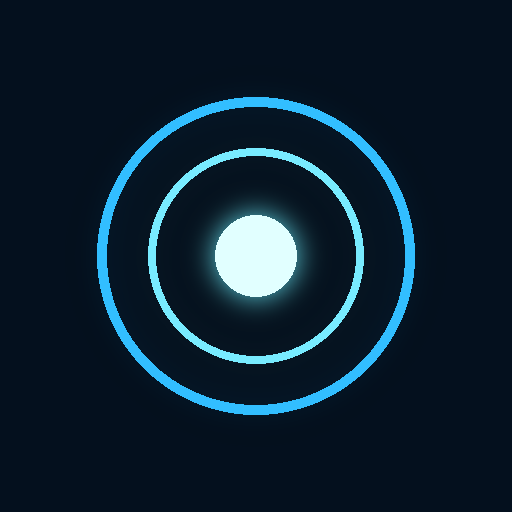
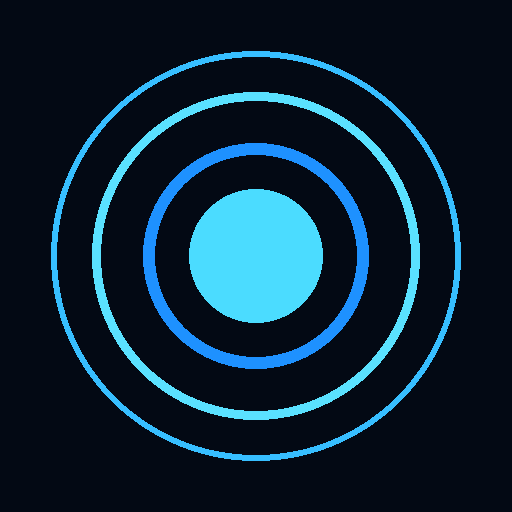
Add files via upload

diff --git a/index.html b/index.html
@@ -1,197 +1,68 @@
-<!DOCTYPE html>
+<!doctype html>
 <html lang="en">
 <head>
-  <meta charset="UTF-8">
-  <meta name="viewport" content="width=device-width, initial-scale=1, viewport-fit=cover">
-  <meta name="theme-color" content="#061426">
-  <meta name="apple-mobile-web-app-capable" content="yes">
-  <meta name="apple-mobile-web-app-status-bar-style" content="black-translucent">
-  <meta name="apple-mobile-web-app-title" content="JARVIS">
-  <link rel="manifest" href="manifest.webmanifest">
-  <link rel="apple-touch-icon" href="icon-192.png">
-  <title>JARVIS Mobile</title>
-  <style>
-    :root {
-      color-scheme: dark;
-      --bg: #04101e;
-      --panel: rgba(7, 30, 52, .78);
-      --cyan: #54dfff;
-      --blue: #168bff;
-      --muted: #78a8c8;
-      --line: rgba(65, 191, 255, .28);
-    }
-    * { box-sizing: border-box; }
-    body {
-      margin: 0;
-      min-height: 100vh;
-      min-height: 100svh;
-      color: #e8f8ff;
-      background:
-        radial-gradient(ellipse at 50% 35%, rgba(0, 113, 191, .24), transparent 43%),
-        linear-gradient(145deg, #061a30, #020812 72%);
-      font-family: -apple-system, BlinkMacSystemFont, "Segoe UI", sans-serif;
-      overflow-x: hidden;
-    }
-    body::before {
-      content: "";
-      position: fixed;
-      inset: 0;
-      pointer-events: none;
-      opacity: .18;
-      background-image: linear-gradient(rgba(65,191,255,.15) 1px, transparent 1px),
-                        linear-gradient(90deg, rgba(65,191,255,.15) 1px, transparent 1px);
-      background-size: 34px 34px;
-      mask-image: linear-gradient(to bottom, black, transparent 88%);
-    }
-    .app {
-      width: min(100%, 520px);
-      min-height: 100vh;
-      min-height: 100svh;
-      margin: 0 auto;
-      padding: max(24px, env(safe-area-inset-top)) 22px max(24px, env(safe-area-inset-bottom));
-      display: flex;
-      flex-direction: column;
-      position: relative;
-    }
-    header { display:flex; justify-content:space-between; align-items:center; letter-spacing:.22em; }
-    .brand { font-size: 13px; font-weight: 800; color: var(--cyan); }
-    .live { font-size: 10px; color:#8ee9ff; border:1px solid var(--line); padding:7px 10px; border-radius:20px; letter-spacing:.16em; }
-    .clock { text-align:center; margin-top:26px; }
-    #time { font-size: clamp(38px, 12vw, 56px); font-weight:200; letter-spacing:.08em; text-shadow:0 0 24px rgba(84,223,255,.35); }
-    #date { color:var(--muted); font-size:11px; letter-spacing:.2em; text-transform:uppercase; margin-top:4px; }
-    .reactor-wrap { display:grid; place-items:center; margin:26px 0 22px; }
-    .reactor {
-      width:min(67vw, 270px); aspect-ratio:1; border-radius:50%; position:relative;
-      display:grid; place-items:center;
-      background: radial-gradient(circle, rgba(49,196,255,.20) 0 12%, rgba(8,99,173,.16) 13% 32%, transparent 33%);
-      filter: drop-shadow(0 0 24px rgba(0,166,255,.38));
-    }
-    .reactor::before, .reactor::after {
-      content:""; position:absolute; inset:3%; border-radius:50%;
-      border:1px solid rgba(84,223,255,.72);
-      box-shadow:0 0 18px rgba(22,139,255,.22), inset 0 0 20px rgba(22,139,255,.12);
-    }
-    .reactor::before { border-width:2px; border-style:double; animation:spin 18s linear infinite; }
-    .reactor::after { inset:14%; border-color:rgba(84,223,255,.42); border-style:dashed; animation:spin 24s linear infinite reverse; }
-    .ring { position:absolute; inset:24%; border-radius:50%; border:7px solid transparent; border-top-color:#66eaff; border-bottom-color:#168bff; box-shadow:0 0 20px rgba(84,223,255,.42); animation:spin 7s linear infinite; }
-    .core { width:29%; aspect-ratio:1; border-radius:50%; background:radial-gradient(circle at 38% 35%, #fff, #8ef3ff 22%, #159fff 58%, #07509b); box-shadow:0 0 18px #39cfff,0 0 55px rgba(0,153,255,.85); }
-    .reactor-label { position:absolute; bottom:-15px; font-size:10px; letter-spacing:.32em; color:#9beeff; }
-    @keyframes spin { to { transform:rotate(360deg); } }
-    .status { text-align:center; color:var(--cyan); font-size:12px; letter-spacing:.3em; margin:4px 0 22px; }
-    .grid { display:grid; grid-template-columns:1fr 1fr; gap:12px; }
-    .tile { border:1px solid var(--line); background:var(--panel); border-radius:13px; padding:15px; min-height:88px; box-shadow:inset 0 0 18px rgba(0,120,200,.06); }
-    .tile-label { color:var(--muted); font-size:9px; letter-spacing:.2em; }
-    .tile-value { margin-top:9px; font-size:18px; color:#e8faff; }
-    .tile-sub { margin-top:4px; font-size:10px; color:#78a8c8; }
-    .actions { display:grid; gap:10px; margin-top:auto; padding-top:24px; }
-    button { border:1px solid rgba(84,223,255,.55); background:linear-gradient(100deg, rgba(5,88,145,.8), rgba(8,38,70,.9)); color:#e8faff; border-radius:11px; padding:16px 14px; font-weight:700; letter-spacing:.17em; font-size:11px; cursor:pointer; }
-    button.secondary { background:rgba(5,21,38,.75); border-color:var(--line); color:#9edff5; }
-    button:active { transform:scale(.99); }
-    #message { min-height:16px; text-align:center; margin-top:10px; color:#86c7e8; font-size:10px; line-height:1.5; }
-    footer { text-align:center; color:rgba(120,168,200,.55); font-size:8px; letter-spacing:.22em; padding-top:18px; }
-  </style>
+<meta charset="utf-8">
+<meta name="viewport" content="width=device-width,initial-scale=1,viewport-fit=cover">
+<meta name="theme-color" content="#030914">
+<link rel="manifest" href="manifest.webmanifest">
+<title>J.A.R.V.I.S.</title>
+<style>
+:root{--cyan:#54dfff;--blue:#168cff;--deep:#06152b;--muted:#82a8c5}
+*{box-sizing:border-box} body{margin:0;background:radial-gradient(ellipse at 50% 38%,#09264a 0,#061426 34%,#020711 76%);color:#eaf8ff;font-family:Arial,Helvetica,sans-serif;min-height:100vh;overflow-x:hidden}
+body:before{content:"";position:fixed;inset:0;pointer-events:none;opacity:.18;background-image:linear-gradient(#4bbdff18 1px,transparent 1px),linear-gradient(90deg,#4bbdff18 1px,transparent 1px);background-size:36px 36px;mask-image:linear-gradient(to bottom,black,transparent 85%)}
+header{display:flex;justify-content:space-between;align-items:center;padding:22px 22px 8px;letter-spacing:3px;font-size:12px;color:#9bcce8}
+.brand{font-weight:700;color:#dff8ff}.status{font-size:10px;letter-spacing:2px;color:#69e9ff}.status:before{content:"";display:inline-block;width:6px;height:6px;background:#51f4c4;border-radius:50%;margin-right:8px;box-shadow:0 0 10px #51f4c4}
+main{max-width:650px;margin:auto;padding:10px 18px 35px;text-align:center}
+h1{font-size:clamp(26px,6vw,40px);letter-spacing:8px;margin:15px 0 4px;font-weight:400;text-shadow:0 0 22px #2bbcff}
+.sub{font-size:10px;letter-spacing:4px;color:#75a9c8}
+.reactor-wrap{height:min(78vw,390px);min-height:280px;display:grid;place-items:center;position:relative;margin:8px auto 0}
+.reactor{width:min(72vw,330px);aspect-ratio:1;position:relative;display:grid;place-items:center;filter:drop-shadow(0 0 20px #168cff80)}
+.ring{position:absolute;border-radius:50%;border:1px solid #48cfff88;box-shadow:0 0 14px #168cff44,inset 0 0 12px #168cff22}
+.r1{inset:1%;border-width:2px;border-top-color:#b5f7ff;animation:spin 14s linear infinite}
+.r2{inset:8%;border:2px dashed #36baffaa;animation:spin 22s linear infinite reverse}
+.r3{inset:16%;border:1px solid #9beeff;box-shadow:0 0 24px #28baff,inset 0 0 22px #168cff66;animation:pulse 2.8s ease-in-out infinite}
+.r4{inset:23%;border:5px double #3abaff88;animation:spin 9s linear infinite}
+.r5{inset:31%;border:1px solid #b9f8ff;box-shadow:0 0 25px #2fcfff}
+.core{width:36%;aspect-ratio:1;border-radius:50%;background:radial-gradient(circle,#f1ffff 0,#9cf5ff 12%,#29c9ff 35%,#0872d5 62%,#031a3b 78%);box-shadow:0 0 20px #5deaff,0 0 55px #168cff,0 0 100px #087cff88;animation:corepulse 2.4s ease-in-out infinite}
+.tick{position:absolute;inset:4%;border-radius:50%;background:repeating-conic-gradient(from 0deg,#69dfff 0deg 1deg,transparent 1deg 15deg);mask:radial-gradient(circle,transparent 69%,#000 70%,#000 72%,transparent 73%);animation:spin 35s linear infinite}
+@keyframes spin{to{transform:rotate(360deg)}}@keyframes pulse{50%{transform:scale(1.035);opacity:.65}}@keyframes corepulse{50%{transform:scale(1.07);filter:brightness(1.35)}}
+.metrics{display:flex;justify-content:center;gap:34px;margin:0 auto 22px;color:#83b5d2;font-size:10px;letter-spacing:2px}.metric strong{display:block;color:#e4faff;font-size:17px;font-weight:400;letter-spacing:1px;margin-top:6px}
+.nav{display:flex;gap:8px;justify-content:center;margin:16px auto 18px}.nav button,.action{border:1px solid #287cb4;background:#071a30;color:#bcecff;border-radius:5px;padding:12px 20px;letter-spacing:2px;font-size:10px}.nav button.active{background:#0b3b64;border-color:#5bdfff;box-shadow:0 0 16px #168cff55;color:white}
+.panel{border:1px solid #1c5b85;background:#061326d9;border-radius:8px;padding:18px;text-align:left;box-shadow:0 0 28px #087cff18}
+.panel h2{font-size:12px;letter-spacing:3px;font-weight:400;color:#79dfff;margin:0 0 14px}
+#chatlog{height:210px;overflow:auto;color:#c8eaff;font-size:14px;line-height:1.5}.msg{padding:9px 11px;margin:8px 0;border-left:2px solid #2e9bd7;background:#0a2038;border-radius:2px}.msg.user{border-left-color:#67e9d0}
+.inputrow{display:flex;gap:8px;margin-top:12px}input{min-width:0;flex:1;background:#020b17;border:1px solid #28628a;color:white;border-radius:4px;padding:13px;font-size:14px;outline:none}input:focus{border-color:#58dfff}.send{background:#0b4775;color:white;border:1px solid #4acbff;border-radius:4px;padding:0 18px}
+.note{font-size:10px;line-height:1.5;color:#6f98b5;margin-top:12px}.hidden{display:none}.action{display:inline-block;margin-top:12px;text-decoration:none}
+footer{color:#416b89;font-size:9px;letter-spacing:2px;margin-top:25px}
+@media(max-width:420px){header{padding:18px 16px}.metrics{gap:22px}.nav button{padding:11px 15px}}
+</style>
 </head>
 <body>
-  <main class="app">
-    <header>
-      <div class="brand">J.A.R.V.I.S.</div>
-      <div class="live">● SYSTEM ONLINE</div>
-    </header>
-    <section class="clock">
-      <div id="time">--:--</div>
-      <div id="date">INITIALIZING</div>
-    </section>
-    <section class="reactor-wrap" aria-label="JARVIS reactor animation">
-      <div class="reactor">
-        <div class="ring"></div><div class="core"></div>
-        <div class="reactor-label">ARC INTERFACE</div>
-      </div>
-    </section>
-    <div class="status" id="status">JARVIS STANDBY</div>
-    <section class="grid">
-      <div class="tile">
-        <div class="tile-label">LOCAL WEATHER</div>
-        <div class="tile-value" id="weather">--°</div>
-        <div class="tile-sub" id="weatherSub">Allow location to load</div>
-      </div>
-      <div class="tile">
-        <div class="tile-label">DEVICE POWER</div>
-        <div class="tile-value" id="battery">--</div>
-        <div class="tile-sub" id="batterySub">iOS may restrict access</div>
-      </div>
-    </section>
-    <section class="actions">
-      <button id="voice">START VOICE ASSISTANT</button>
-      <button class="secondary" id="test">TEST JARVIS VOICE</button>
-      <div id="message">Voice conversations open in ChatGPT. This prototype does not listen continuously.</div>
-    </section>
-    <footer>PERSONAL ASSISTANT INTERFACE • MOBILE PROTOTYPE</footer>
-  </main>
+<header><div class="brand">STARK INDUSTRIES <span style="color:#3d9bc9">/</span> J.A.R.V.I.S.</div><div class="status">SYSTEM ONLINE</div></header>
+<main>
+<h1>J.A.R.V.I.S.</h1><div class="sub">JUST A RATHER VERY INTELLIGENT SYSTEM</div>
+<section id="dashboard">
+<div class="reactor-wrap" aria-label="Animated blue arc reactor"><div class="reactor"><div class="ring r1"></div><div class="ring r2"></div><div class="ring r3"></div><div class="ring r4"></div><div class="ring r5"></div><div class="tick"></div><div class="core"></div></div></div>
+<div class="metrics"><div class="metric">LOCAL TIME<strong id="clock">--:--</strong></div><div class="metric">DATE<strong id="date">---</strong></div><div class="metric">POWER<strong id="power">ONLINE</strong></div></div>
+</section>
+<nav class="nav"><button id="dashBtn" class="active">DASHBOARD</button><button id="chatBtn">JARVIS CHAT</button></nav>
+<section class="panel hidden" id="chatPanel">
+<h2>SECURE COMMUNICATION CHANNEL</h2>
+<div id="chatlog"><div class="msg">JARVIS: Good evening. My interface is online. The secure AI connection has not been configured yet.</div></div>
+<div class="inputrow"><input id="message" placeholder="Type your message..." autocomplete="off"><button class="send" id="send">SEND</button></div>
+<div class="note">This is the chat interface preview. A secure server connection is still required before JARVIS can generate live AI answers. Never place an API key in these website files.</div>
+<a class="action" href="https://chatgpt.com/" target="_blank" rel="noopener">OPEN AI CHAT</a>
+</section>
+<footer>STARK INDUSTRIES • PERSONAL ASSISTANT INTERFACE • V 2.1</footer>
+</main>
 <script>
-  const $ = id => document.getElementById(id);
-  function updateClock() {
-    const now = new Date();
-    $('time').textContent = now.toLocaleTimeString([], {hour:'2-digit', minute:'2-digit'});
-    $('date').textContent = now.toLocaleDateString([], {weekday:'long', day:'numeric', month:'long', year:'numeric'});
-  }
-  updateClock(); setInterval(updateClock, 1000);
-
-  async function loadWeather() {
-    if (!navigator.geolocation) {
-      $('weatherSub').textContent = 'Location unavailable in this browser'; return;
-    }
-    $('weatherSub').textContent = 'Requesting location permission…';
-    navigator.geolocation.getCurrentPosition(async pos => {
-      try {
-        const {latitude, longitude} = pos.coords;
-        const url = `https://api.open-meteo.com/v1/forecast?latitude=${latitude}&longitude=${longitude}&current=temperature_2m,weather_code&timezone=auto`;
-        const res = await fetch(url);
-        const data = await res.json();
-        const temp = Math.round(data.current.temperature_2m);
-        const codes = {0:'Clear sky',1:'Mostly clear',2:'Partly cloudy',3:'Overcast',45:'Foggy',48:'Foggy',51:'Light drizzle',53:'Drizzle',55:'Heavy drizzle',61:'Light rain',63:'Rain',65:'Heavy rain',71:'Light snow',73:'Snow',75:'Heavy snow',80:'Rain showers',81:'Rain showers',82:'Heavy showers',95:'Thunderstorm'};
-        $('weather').textContent = `${temp}°C`;
-        $('weatherSub').textContent = codes[data.current.weather_code] || 'Current conditions';
-      } catch(e) { $('weatherSub').textContent = 'Weather could not be loaded'; }
-    }, () => { $('weatherSub').textContent = 'Location permission not granted'; }, {timeout:10000});
-  }
-  loadWeather();
-
-  async function loadBattery() {
-    if ('getBattery' in navigator) {
-      try {
-        const b = await navigator.getBattery();
-        const paint = () => {
-          $('battery').textContent = `${Math.round(b.level * 100)}%`;
-          $('batterySub').textContent = b.charging ? 'Charging' : 'On battery';
-        };
-        paint(); b.addEventListener('levelchange', paint); b.addEventListener('chargingchange', paint);
-        return;
-      } catch(e) {}
-    }
-    $('battery').textContent = 'N/A';
-    $('batterySub').textContent = 'iOS does not expose battery data here';
-  }
-  loadBattery();
-
-  $('test').addEventListener('click', () => {
-    if (!('speechSynthesis' in window)) {
-      $('message').textContent = 'Speech playback is not supported in this browser.'; return;
-    }
-    const utterance = new SpeechSynthesisUtterance('Good day. JARVIS systems are online and ready.');
-    utterance.lang = 'en-US'; utterance.rate = 0.92; utterance.pitch = 0.88;
-    speechSynthesis.cancel(); speechSynthesis.speak(utterance);
-    $('status').textContent = 'JARVIS SPEAKING';
-    utterance.onend = () => $('status').textContent = 'JARVIS STANDBY';
-    $('message').textContent = 'Playing a short voice test.';
-  });
-  $('voice').addEventListener('click', () => {
-    $('message').textContent = 'Opening ChatGPT. Tap its Voice icon to start a live conversation with JARVIS.';
-    window.location.href = 'https://chatgpt.com/';
-  });
-
-  if ('serviceWorker' in navigator && location.protocol.startsWith('http')) {
-    window.addEventListener('load', () => navigator.serviceWorker.register('./service-worker.js').catch(() => {}));
-  }
+const $=id=>document.getElementById(id);
+function updateTime(){const d=new Date();$('clock').textContent=d.toLocaleTimeString('en-GB',{hour:'2-digit',minute:'2-digit'});$('date').textContent=d.toLocaleDateString('en-GB',{day:'2-digit',month:'short'}).toUpperCase()}
+updateTime();setInterval(updateTime,1000);
+$('dashBtn').onclick=()=>{ $('dashboard').classList.remove('hidden');$('chatPanel').classList.add('hidden');$('dashBtn').classList.add('active');$('chatBtn').classList.remove('active')};
+$('chatBtn').onclick=()=>{ $('dashboard').classList.add('hidden');$('chatPanel').classList.remove('hidden');$('chatBtn').classList.add('active');$('dashBtn').classList.remove('active')};
+function send(){const v=$('message').value.trim();if(!v)return;const m=document.createElement('div');m.className='msg user';m.textContent='YOU: '+v;$('chatlog').appendChild(m);const r=document.createElement('div');r.className='msg';r.textContent='JARVIS: The interface received your message. Connect the secure AI server to enable live responses.';$('chatlog').appendChild(r);$('message').value='';$('chatlog').scrollTop=$('chatlog').scrollHeight}
+$('send').onclick=send;$('message').addEventListener('keydown',e=>{if(e.key==='Enter')send()});
+if('serviceWorker' in navigator)window.addEventListener('load',()=>navigator.serviceWorker.register('./service-worker.js'));
 </script>
-</body>
-</html>
+</body></html>

diff --git a/service-worker.js b/service-worker.js
@@ -1,14 +1,5 @@
-const CACHE = "jarvis-mobile-v1";
-const FILES = ["./", "./index.html", "./manifest.webmanifest", "./icon-192.png", "./icon-512.png"];
-self.addEventListener("install", event => {
-  event.waitUntil(caches.open(CACHE).then(cache => cache.addAll(FILES)));
-  self.skipWaiting();
-});
-self.addEventListener("activate", event => {
-  event.waitUntil(caches.keys().then(keys => Promise.all(keys.filter(key => key !== CACHE).map(key => caches.delete(key)))));
-  self.clients.claim();
-});
-self.addEventListener("fetch", event => {
-  if (event.request.method !== "GET") return;
-  event.respondWith(caches.match(event.request).then(cached => cached || fetch(event.request)));
-});
+const CACHE = "jarvis-ironman-v3";
+const FILES = ["./","./index.html","./manifest.webmanifest","./icon-192.png","./icon-512.png"];
+self.addEventListener("install",e=>e.waitUntil(caches.open(CACHE).then(c=>c.addAll(FILES))));
+self.addEventListener("activate",e=>e.waitUntil(caches.keys().then(keys=>Promise.all(keys.filter(k=>k!==CACHE).map(k=>caches.delete(k))))));
+self.addEventListener("fetch",e=>e.respondWith(caches.match(e.request).then(r=>r||fetch(e.request))));
